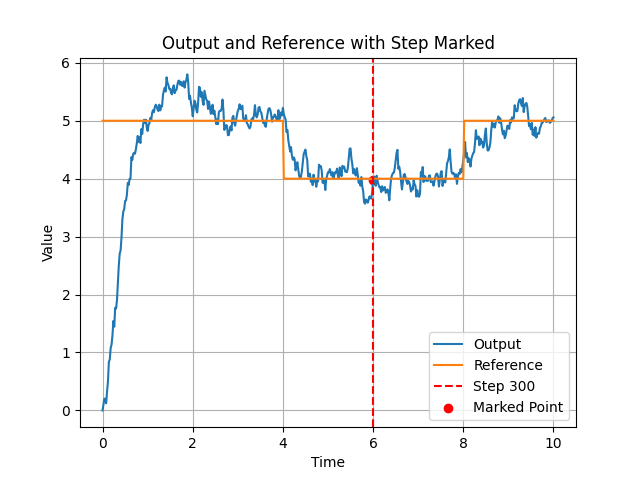
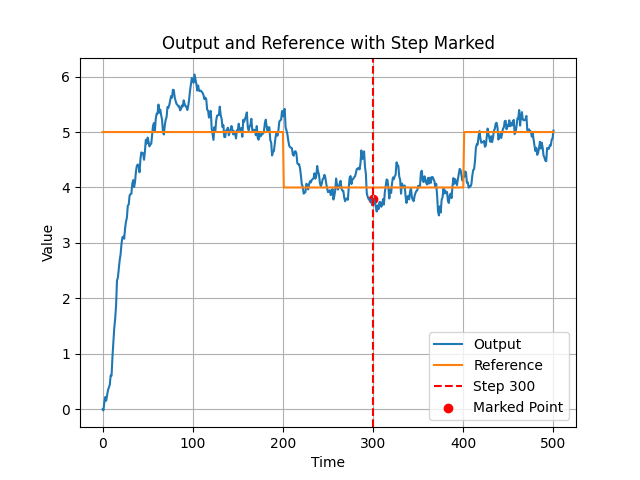
Jialiang: revise figure generalization

diff --git a/src/cpsim/actuator_attack.py b/src/cpsim/actuator_attack.py
@@ -41,15 +41,6 @@ class ActuatorAttack:
                     return history_intact_data[self.start_index]
                 else:
                     return history_intact_data[delayed_index]
-            # if self.cur_index - self.start_index > self.param:
-            #     print('delay attack used steps', self.cur_index - self.param, 'data of used steps',
-            #           history_intact_data[self.cur_index - self.param])
-            #     return history_intact_data[self.cur_index - self.param]
-            # else:
-            #     return None
-            # for i in range(self.param):
-            #     self.simulator.evolve()
-            # return history_intact_data[self.start_index]
         if self.cat == 'replay':
             # replay interval param['start'] ~ param['end']
             delta_index = self.cur_index - self.start_index

diff --git a/src/examples/actuator_delay_attack/linear/motor_actuator_delay.py b/src/examples/actuator_delay_attack/linear/motor_actuator_delay.py
@@ -109,7 +109,7 @@ if __name__ == "__main__":
 
     sim = MotorSpeed('test', dt, max_index, noise)
     delay_attack = ActuatorAttack('delay', 10, 300, simulator=sim)
-    attack = True
+    attack = False
     for i in range(0, max_index + 1):
         assert sim.cur_index == i
         sim.update_current_ref(ref[i])
